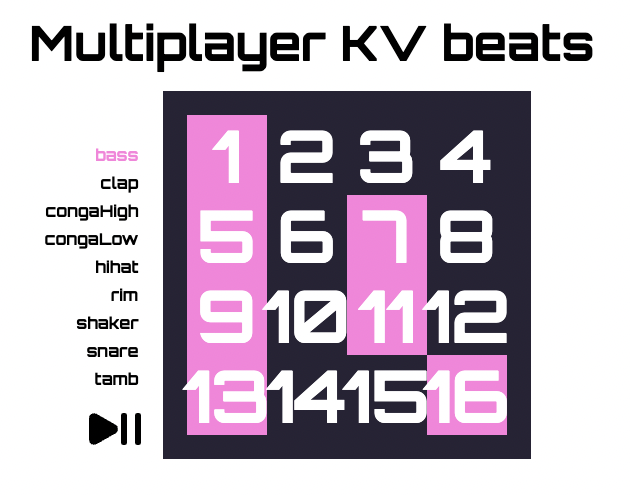
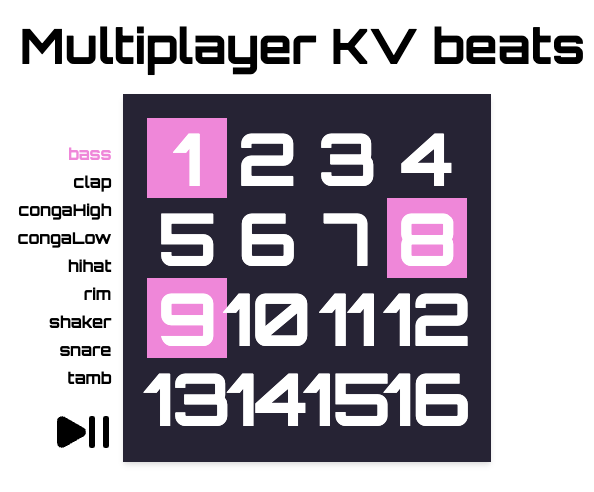
Add basic mobile styling

diff --git a/islands/Beats.tsx b/islands/Beats.tsx
@@ -54,9 +54,9 @@ export default function Beats() {
 
   return (
     <div className="flex flex-col gap-6 mt-6">
-      <h1 className="text-5xl text-center">Multiplayer KV beats</h1>
-      <div className="flex gap-6 flex-row-reverse relative -left-16">
-        <div className="flex flex-wrap text-7xl p-6 bg-[#272335] w-[368px] h-[368px]">
+      <h1 className="text-2xl md:text-5xl text-center">Multiplayer KV beats</h1>
+      <div className="flex gap-3 flex-row-reverse md:relative -left-12 mx-auto">
+        <div className="flex flex-wrap text-xl md:text-7xl p-6 bg-[#272335] w-[240px] h-[240px] md:w-[368px] md:h-[368px] shadow-md">
           {Object.keys(track ?? {}).map((k) => {
             const key = Number(k);
             return (
@@ -81,7 +81,7 @@ export default function Beats() {
             );
           })}
         </div>
-        <div className="flex flex-col gap-1 items-end justify-end">
+        <div className="md:flex flex-col gap-1 items-end justify-end">
           {soundNames.map((key) => (
             <div key={key}>
               <button
@@ -105,7 +105,7 @@ export default function Beats() {
               </button>
             </div>
           ))}
-          <div class="flex items-center justify-center relative -right-2">
+          <div class="md:flex items-center justify-center md:relative -right-1 mt-1">
             <PlayStop
               isPlaying={isPlaying}
               onClick={(isPlaying) => isPlaying ? start() : stop()}

diff --git a/components/Note.tsx b/components/Note.tsx
@@ -14,10 +14,11 @@ export function Note(
       type="button"
       disabled={!IS_BROWSER || props.disabled}
       className={tw(
-        "w-20 h-20 flex items-center justify-center p-6 focus:outline-none text-white",
+        "w-12 h-12 md:w-20 md:h-20 flex items-center justify-center p-1 md:p-6 focus:outline-none text-white",
         {
           "bg-[#FEDE5D]": props.currentNote,
-          "bg-[#ff7edb]": props.hasSound,
+          "bg-[#ff7edb]": props.hasSound && !props.currentNote,
+          "transition-opacity duration-300": !props.hasSound,
         },
       )}
     />

diff --git a/hooks/useSounds.ts b/hooks/useSounds.ts
@@ -13,13 +13,14 @@ export const useSounds = () => {
 
   const start = () => {
     isPlaying.value = true;
+    count.value = 0;
+    Tone.Transport.position = 0;
     Tone.start();
     Tone.Transport?.start();
   };
 
   const stop = () => {
     isPlaying.value = false;
-    count.value = 0;
     Tone.Transport?.stop();
   };
 
